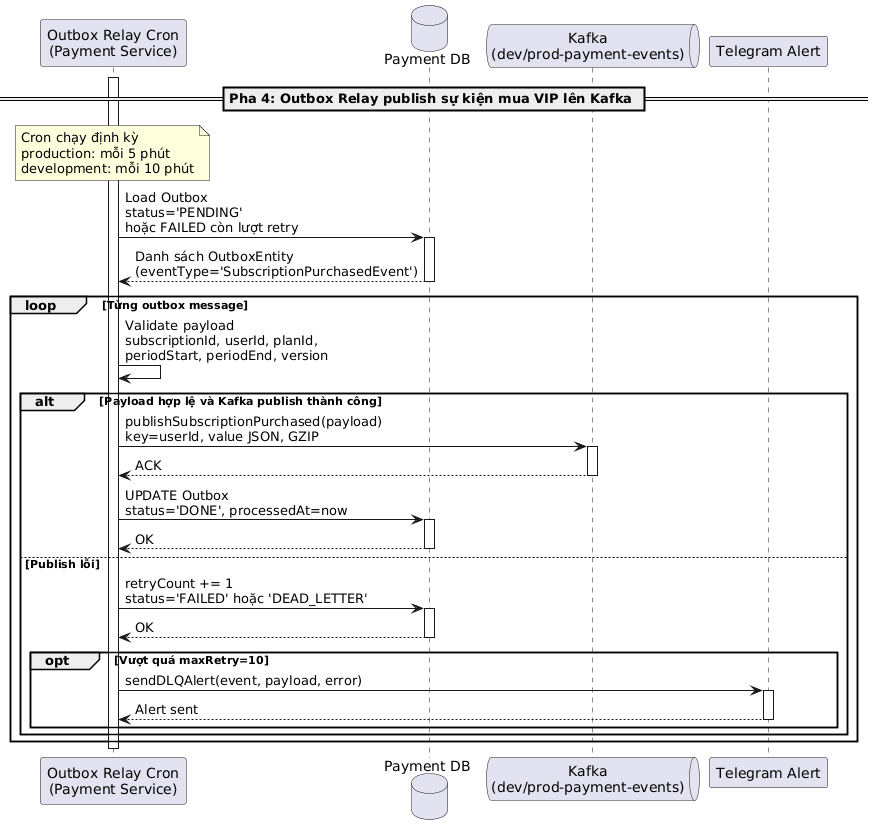
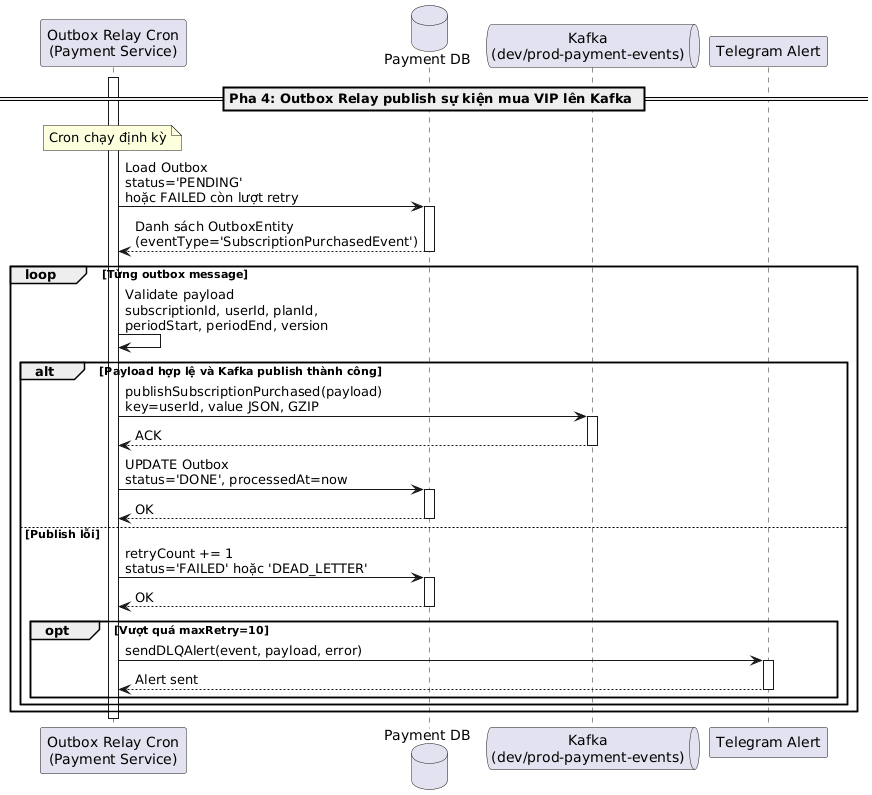
1

Changed region(s): [[0.0, 0.0302, 0.9908, 0.9962], [0.4644, 0.6642, 0.4954, 0.6943], [0.4644, 0.6038, 0.4954, 0.634]]

diff --git a/latex/contents/Sequence/UML-Sequence-UserTextChatSse.tex b/latex/contents/Sequence/UML-Sequence-UserTextChatSse.tex
@@ -5,7 +5,7 @@ vòng đời của một yêu cầu chat văn bản từ Web Frontend tới Conv
 
 \begin{figure}[H]
 \centering
-\includegraphics[scale = 0.18]{contents/Sequence/UML-Sequence-UserTextChatSse.png}
+\includegraphics[scale = 0.2]{contents/Sequence/UML-Sequence-UserTextChatSse.png}
 \caption{Sơ đồ tuần tự luồng nhắn tin văn bản qua SSE}
 \end{figure}
 
@@ -14,6 +14,7 @@ vòng đời của một yêu cầu chat văn bản từ Web Frontend tới Conv
 \begin{table}[H]
 \centering
 \renewcommand{\arraystretch}{1.3}
+
 \begin{tabular}{|l|l|p{5cm}|}
 \hline
 \textbf{Thành phần} & \textbf{Phân loại} & \textbf{Vai trò trong hệ thống} \\ \hline
@@ -21,7 +22,7 @@ User & Actor & Người dùng nhập truy vấn, chọn tài liệu đính kèm 
 Web Frontend & Component & Giao diện web Next.js. \\ \hline %%%% Component & Gọi \texttt{conversationService.streamChat}, xử lý SSE và hiển thị status, nội dung, reasoning steps, sources. \\ \hline
 API Gateway (Kong) & Component & Cổng API chuyển tiếp các yêu cầu API. \\ \hline %%%% Component & Định tuyến request stream có Bearer Token tới Conversation Service. \\ \hline
 Conversation Service & Microservice & Kiểm tra quyền VIP khi cần, kiểm tra chat active, mở SSE stream và gọi Chatbot Service qua gRPC. \\ \hline
-Conversation DB & Database & Lưu chat session và bảng \texttt{user\_subscriptions} dùng để kiểm tra VIP. \\ \hline
+Conversation DB & Database & Lưu quản lý trò chuyện và và bảng \texttt{user\_subscriptions} dùng để kiểm tra VIP. \\ \hline
 Chatbot Service (gRPC + LangGraph) & Microservice & Verify token từ gRPC metadata, xử lý RAG/reasoning, stream kết quả và lưu lịch sử chat. \\ \hline
 Chatbot DB & Database & Lưu human message, AI message, reasoning steps, sources và trạng thái xác nhận. \\ \hline
 \end{tabular}
@@ -29,9 +30,10 @@ Chatbot DB & Database & Lưu human message, AI message, reasoning steps, sources
 \end{table}
 
 \subparagraph{Mô tả tổng quan}
+
 \begin{itemize}
 \item \textbf{Gửi yêu cầu stream:} Frontend gọi \texttt{POST /code-conversation-service/chats/stream} với \texttt{chat\_id}, \texttt{query}, \texttt{file\_ids}, \texttt{use\_reasoning} và Bearer Token.
-\item \textbf{Kiểm tra VIP:} Khi \texttt{use\_reasoning=true} và môi trường không phải \texttt{development}, Conversation Service gọi \texttt{isVip(userId)} trên bảng \texttt{user\_subscriptions}. Subscription hợp lệ khi \texttt{is\_active=true} và \texttt{period\_end >= now}; nếu không hợp lệ, service trả \texttt{ForbiddenException}.
+\item \textbf{Kiểm tra VIP:} Khi \texttt{use\_reasoning=true}, Conversation Service gọi \texttt{isVip(userId)} trên bảng \texttt{user\_subscriptions}. Subscription hợp lệ khi \texttt{is\_active=true} và \texttt{period\_end >= now}; nếu không hợp lệ, service trả \texttt{ForbiddenException}.
 \item \textbf{Kiểm tra chat:} Conversation Service kiểm tra \texttt{findById(chat\_id)} để đảm bảo phiên chat còn active; nếu không có thì trả \texttt{ChatNotFoundException}.
 \item \textbf{Gọi Chatbot Service:} Conversation Service gọi gRPC \texttt{AskAI(query, chat\_id, file\_ids, use\_reasoning)} và truyền token qua metadata \texttt{authorization}.
 \item \textbf{Streaming kết quả:} Chatbot Service verify token, lưu human message, gọi \texttt{generation\_stream}, rồi stream các gói \texttt{status}, \texttt{content} và \texttt{metadata}. Controller chuyển chúng thành SSE; Frontend cập nhật reasoning steps, nội dung, \texttt{full\_answer}, sources và \texttt{pending\_confirmation}.

diff --git a/latex/contents/Sequence/UML-Sequence-UserVoiceLiveKitToken.tex b/latex/contents/Sequence/UML-Sequence-UserVoiceLiveKitToken.tex
@@ -1,7 +1,10 @@
 \paragraph{Sơ đồ tuần tự luồng Cấp token voice chat qua LiveKit}
 
 Luồng nghiệp vụ này mô tả
-quá trình Web Frontend xin Access Token để người dùng tham gia phòng voice chat trên LiveKit. Conversation Service kiểm tra quyền VIP khi không chạy ở môi trường \texttt{development}, tạo token bằng LiveKit SDK và nhúng metadata để Voice Agent sử dụng khi xử lý cuộc trò chuyện.
+quá trình Web Frontend xin Access Token
+để người dùng tham gia phòng voice chat trên LiveKit.
+Conversation Service kiểm tra quyền VIP,
+tạo token bằng LiveKit SDK và nhúng metadata để Voice Agent sử dụng khi xử lý cuộc trò chuyện.
 
 \begin{figure}[H]
 \centering
@@ -30,7 +33,7 @@ LiveKit Cloud & External Service & Hạ tầng WebRTC/WebSocket cho phiên đàm
 \subparagraph{Mô tả tổng quan}
 \begin{itemize}
 \item Web Frontend gọi \texttt{GET /code-conversation-service/chats/\{chat\_id\}/voice-token} kèm \texttt{file\_ids[]}, \texttt{use\_reasoning} và \texttt{persona\_id}.
-\item Conversation Service kiểm tra VIP khi môi trường khác \texttt{development}; nếu không hợp lệ thì trả \texttt{ForbiddenException}.
+\item Conversation Service kiểm tra VIP, nếu không hợp lệ thì trả \texttt{ForbiddenException}.
 \item Access Token chứa metadata \texttt{chat\_id}, \texttt{user\_id}, \texttt{file\_ids}, \texttt{use\_reasoning} và \texttt{persona\_id}.
 \item Token có quyền \texttt{roomJoin}, \texttt{canPublish}, \texttt{canSubscribe} và \texttt{canUpdateOwnMetadata}. Client dùng token và \texttt{LIVEKIT\_URL} để join room tương ứng với \texttt{chat\_id}.
 \end{itemize}

diff --git a/latex/contents/Sequence/UML-Sequence-UserUploadPersonalDocument.tex b/latex/contents/Sequence/UML-Sequence-UserUploadPersonalDocument.tex
@@ -1,7 +1,9 @@
 \paragraph{Sơ đồ tuần tự luồng Tải lên tài liệu cá nhân}
 
 Luồng nghiệp vụ này mô tả
-quá trình người dùng tải lên tài liệu cá nhân. Document Service kiểm tra subscription khi không chạy ở môi trường \texttt{development}, validate file, lưu metadata, upload file gốc lên Cloudflare R2 và gửi task xử lý nền qua Celery/RabbitMQ.
+quá trình người dùng tải lên tài liệu cá nhân.
+Document Service kiểm tra subscription, validate file, lưu metadata, upload file gốc lên Cloudflare R2
+và gửi task xử lý nền qua Celery/RabbitMQ.
 
 \begin{figure}[H]
 \centering
@@ -31,7 +33,7 @@ RabbitMQ & Message Broker & Nhận Celery task \texttt{process\_document\_task}.
 \subparagraph{Mô tả tổng quan}
 \begin{itemize}
 \item Web Frontend gọi \texttt{POST /code-document-service/documents/upload} với multipart file.
-\item Document Service kiểm tra \texttt{UserSubscription.is\_active=true} và \texttt{period\_end >= now} khi môi trường khác \texttt{development}.
+\item Document Service kiểm tra \texttt{UserSubscription.is\_active=true} và \texttt{period\_end >= now}.
 \item File được validate, tính hash/size và tạo bản ghi Document với \texttt{status=UPLOADED}, \texttt{has\_file=false}.
 \item File gốc được upload lên R2 theo đường dẫn \texttt{\{user\_id\}/document/\{doc\_id\}\{ext\}}, sau đó cập nhật \texttt{has\_file=true}.
 \item Service gửi Celery task \texttt{process\_document\_task(doc\_id)} vào \texttt{CELERY\_QUEUE\_NAME} để xử lý tài liệu trong nền.
